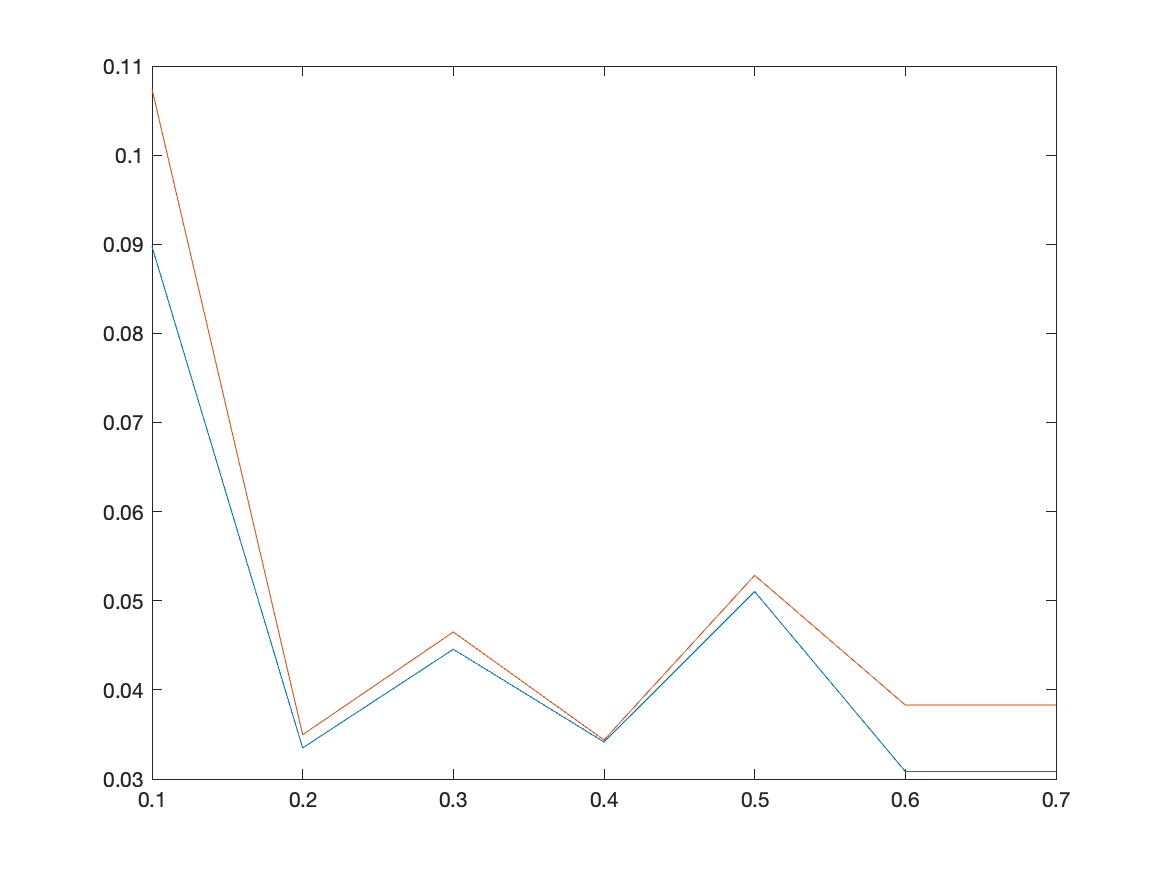
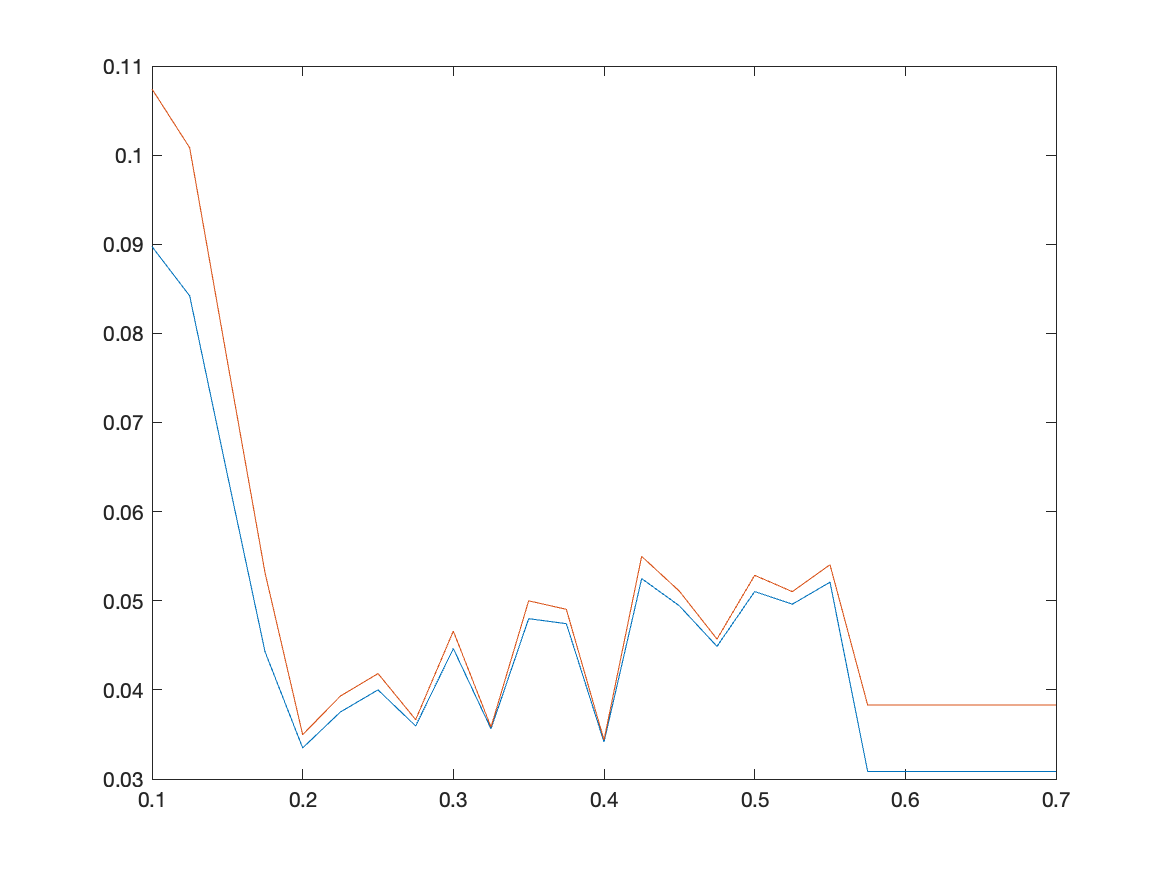
0608

diff --git a/time delay/plot_diff.m b/time delay/plot_diff.m
@@ -1,0 +1,92 @@
+% for only one policy (lockdown)
+
+tspan = [0 100];   % days
+S0 = 0.7;           % initial susceptible population 
+I0 = 0.3;           % initial intected proportion
+
+p0 = [S0; I0];      % vector of ode 
+h = 1;
+N = (tspan(2)-tspan(1))/h;  % one day
+
+% Euler methods
+% Eulerp: the vector[s,i] with threshold policy
+% withoutpolicy: vector[s,i] without policy
+% betas: the beta changes when threshold policy
+
+
+delay = [1;2;3;4;5;6;7;8;9;10;11;12;13;14;15];
+amplitudes = zeros(length(delay),2);
+for A = 1:length(delay)
+    [t1,Eulerp,withoutpolicy,betas] = timedelay(tspan,p0,N,delay(A,1));
+
+    figure;
+    subplot(2,2,1);
+    plot(t1, withoutpolicy(1,:),'r')
+    hold on;
+    plot(t1, withoutpolicy(2,:),'b')
+    hold on;
+    plot(t1, Eulerp(1,:))
+    hold on;
+    plot(t1, Eulerp(2,:))
+    legend('S_origin','I_origin','S','I');
+    xlabel('time')
+    ylabel('population')
+    title('SIV, when reach threshold, implement policy')
+
+
+    susceptible = Eulerp(1,10:100);
+    infected = Eulerp(2,10:100);
+    
+    max_S = max(susceptible);
+    min_S = min(susceptible);
+    amplitude_S = max_S - min_S;
+    
+    max_I = max(infected);
+    min_I = min(infected);
+    amplitude_I = max_I - min_I;
+    
+    amplitudes(A,1) = amplitude_S;
+    amplitudes(A,2) = amplitude_I;
+    fprintf("The amplitude of S: %.2f, I: %.2f\n", amplitude_S, amplitude_I);
+    
+    % the phase plane S-I
+    subplot(2,2,2);
+    plot(Eulerp(1,:),Eulerp(2,:))
+    xlabel('S');
+    ylabel('I');
+    title('phase plane')
+    
+    % the beta changes verus time
+    subplot(2,2,3);
+    plot(t1, betas)
+    xlabel('time')
+    ylabel('beta')
+    title('The changes of beta')
+    
+    % different initial state 定义多种不同的初始值
+    subplot(2,2,4);
+    p02 = [0.6; 0.4];
+    [t2,Eulerp2,withoutpolicy2,betas2] = timedelay(tspan,p02,N,delay(A,1));
+    p03 = [0.2; 0.2];
+    [t3,Eulerp3,withoutpolicy3,betas3] = timedelay(tspan,p03,N,delay(A,1));
+    plot(Eulerp(1,:),Eulerp(2,:))
+    hold on;
+    plot(Eulerp2(1,:),Eulerp2(2,:))
+    hold on;
+    plot(Eulerp3(1,:),Eulerp3(2,:))
+    xlabel('S')
+    ylabel('I')
+
+    txt = "timedelay " + num2str(A);
+    saveas(gcf,txt,'png');
+end
+
+figure;
+plot(delay,amplitudes(:,1));
+hold on;
+plot(delay,amplitudes(:,2));
+hold off;
+xlabel("Days delay")
+ylabel('oscillation amplitude')
+legend('S','I')
+saveas(gcf,"amplitude-timedelay",'png');

diff --git a/Basic Model/am_ic.m b/Basic Model/am_ic.m
@@ -1,0 +1,56 @@
+% for only one threshold policy (e.g. lockdown)
+
+tspan = [0 100];   % days
+S0 = 0.7;           % initial susceptible population 
+I0 = 0.3;           % initial intected proportion
+
+p0 = [S0; I0];      % vector of ode 
+h = 1;
+N = (tspan(2)-tspan(1))/h;  % one day
+
+% Euler methods
+% Eulerp: the vector[s,i] with threshold policy
+% withoutpolicy: vector[s,i] without policy
+% betas: the beta changes when threshold policy
+
+% change the parameters in Ic, beta0, eplison
+% the threshold of infectious people
+% infection rate when there is no policy
+
+
+beta0 = 0.5;
+eplison = 0.5;
+thresholds = [0.1;0.2; 0.3; 0.4; 0.5; 0.6;0.7];    
+amplitudes = zeros(length(0.1:0.025:0.7),2);
+% for A = 1:length(thresholds)
+i = 1;
+for A = 0.1:0.025:0.7
+    fprintf('%.2f\n', A);
+
+    [t1,Eulerp,withoutpolicy,betas] = basicmodel(tspan,p0,N,A,beta0, eplison);
+
+    susceptible = Eulerp(1,10:100);
+    infected = Eulerp(2,10:100);
+    
+    max_S = max(susceptible);
+    min_S = min(susceptible);
+    amplitude_S = max_S - min_S;
+    
+    max_I = max(infected);
+    min_I = min(infected);
+    amplitude_I = max_I - min_I;
+    
+    amplitudes(i,1) = amplitude_S;
+    amplitudes(i,2) = amplitude_I;
+    i = i +1;
+    fprintf("The amplitude of S: %.2f, I: %.2f\n", amplitude_S, amplitude_I);
+
+end
+
+
+figure;
+plot(0.1:0.025:0.7,amplitudes(:,1));
+hold on;
+plot(0.1:0.025:0.7,amplitudes(:,2));
+hold off;
+saveas(gcf,"amplitude-threshold",'png');

diff --git a/time delay/timedelay.m b/time delay/timedelay.m
@@ -1,12 +1,12 @@
 % This combine SIV ode function and Euler together 
 % change the beta 
 
-function [t,r,withoutpolicy,betachange] = Model(tspan,yI,N)
+function [t,r,withoutpolicy,betachange] = timedelay(tspan,yI,N,delay)
 
 % S:x(1) I:x(2) 
 beta0 = 0.5;         % infection rate when there is no policy
 
-Ic = 0.4;           % the threshold of infectious people
+Ic = 0.5;           % the threshold of infectious people
 f = 1;            % intensity of measurements
 
 
@@ -43,13 +43,13 @@ for k = 1:N   %time h:day
     if y(2,1) < Ic
         beta = 0.5;
         count = 0;  % If the infected people lower than threshold, the government will not implement the policy.
-    elseif y(2,1) >=Ic && count <10
+    elseif y(2,1) >=Ic && count <delay
         beta = 0.5;
         count = count + 1;
 
-    elseif y(2,1) >=Ic && count >=10
+    elseif y(2,1) >=Ic && count >=delay
 %          eplison = sigmoid(count-10);
-         eplison = 0.7;
+         eplison = 0.5;
 %         eplison = randomwalk(count -10);  % 更合理
         beta = (1-f*eplison)*beta0; 
         count = count + 1;  % 表示执行计划开始的时间 eplision越大 beta越小

diff --git a/time delay/plotSIV.m b/time delay/plotSIV.m
@@ -14,7 +14,7 @@ N = (tspan(2)-tspan(1))/h;  % one day
 % Eulerp: the vector[s,i] with threshold policy
 % withoutpolicy: vector[s,i] without policy
 % betas: the beta changes when threshold policy
-[t1,Eulerp,withoutpolicy,betas] = basicmodel(tspan,p0,N);
+[t1,Eulerp,withoutpolicy,betas] = timedelay(tspan,p0,N);
 
 subplot(2,2,1);
 plot(t1, withoutpolicy(1,:),'r')
@@ -46,9 +46,9 @@ title('The changes of beta')
 % different initial state 定义多种不同的初始值
 subplot(2,2,4);
 p02 = [0.6; 0.4];
-[t2,Eulerp2,withoutpolicy2,betas2] = Model(tspan,p02,N);
+[t2,Eulerp2,withoutpolicy2,betas2] = timedelay(tspan,p02,N);
 p03 = [0.2; 0.2];
-[t3,Eulerp3,withoutpolicy3,betas3] = Model(tspan,p03,N);
+[t3,Eulerp3,withoutpolicy3,betas3] = timedelay(tspan,p03,N);
 plot(Eulerp(1,:),Eulerp(2,:))
 hold on;
 plot(Eulerp2(1,:),Eulerp2(2,:))
@@ -56,3 +56,5 @@ hold on;
 plot(Eulerp3(1,:),Eulerp3(2,:))
 xlabel('S')
 ylabel('I')
+
+saveas(gcf,"timedelay",'png');

diff --git a/time delay/odefunction.m b/time delay/odefunction.m
@@ -1,10 +1,10 @@
 function y = odefunction(x,beta)
 
-sigma = 0.3;        % effectiveness of the vaccination sigma=1 vaccination no effect
-mu = 0.05;          % natural birth/death rate
-gamma = 0.1;        % recovery rate
-theta = 0.002;      % rate of loss of community
-phi = 0.07;         % vaccination rate 
+sigma = 0.3;        % effectiveness of the vaccination sigma=1 vaccination no effect 0.3
+mu = 0.1;          % natural birth/death rate 0.05
+gamma = 0.1;        % recovery rate 0.1
+theta = 0.5;      % rate of loss of community 0.002
+phi = 0.1;         % vaccination rate  0.07
 
 y(1,1) = mu - beta * x(1) * x(2) - (mu + theta + phi) * x(1) + (gamma - theta) * x(2) + theta;
 y(2,1) = beta * x(1) * x(2) + sigma * beta * x(2) * (1 - x(1) - x(2)) - (mu + gamma) * x(2);

diff --git a/Basic Model/basic_model.md b/Basic Model/basic_model.md
@@ -2,14 +2,23 @@ only one threshold in ideal situation (without time delay, eplison function)
 解释每个代码都是干什么的
 
 > Natural.m 画出没有政策干预情况下的steady state
+>
 > Naturalmodel.m 在beta是0.5时的解ode的过程
+>
 > plot_only_one.m 只画Ic=0.5, beta0=0.5, eplison=0.5时的震荡，求出amplitude
+>
 > basicmodel.m 解ode的Euler
+>
 > odefunction.m S和I变化的方程（输入beta）
+>
 > plotSIV.m
+>
 > plot_batch.m 画出所有情况下的图
+>
 > plot_different_Ic.m
+>
 > plot_different_beta0.m
+>
 > plot_different_eplison.m 
 
 tspan = [0 100];   % days
